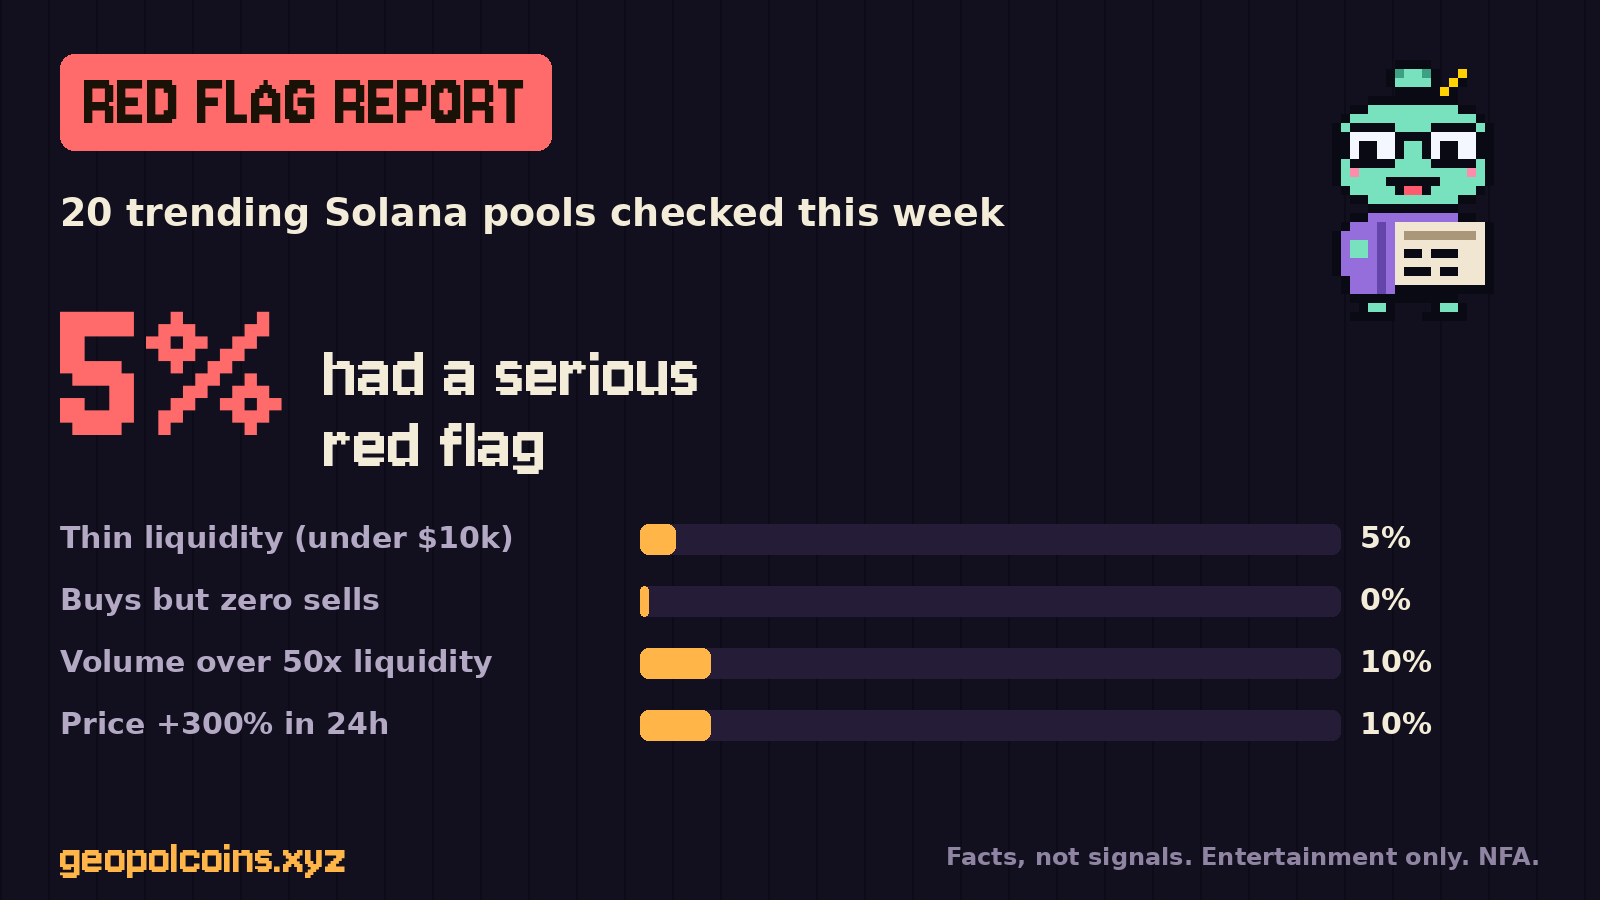
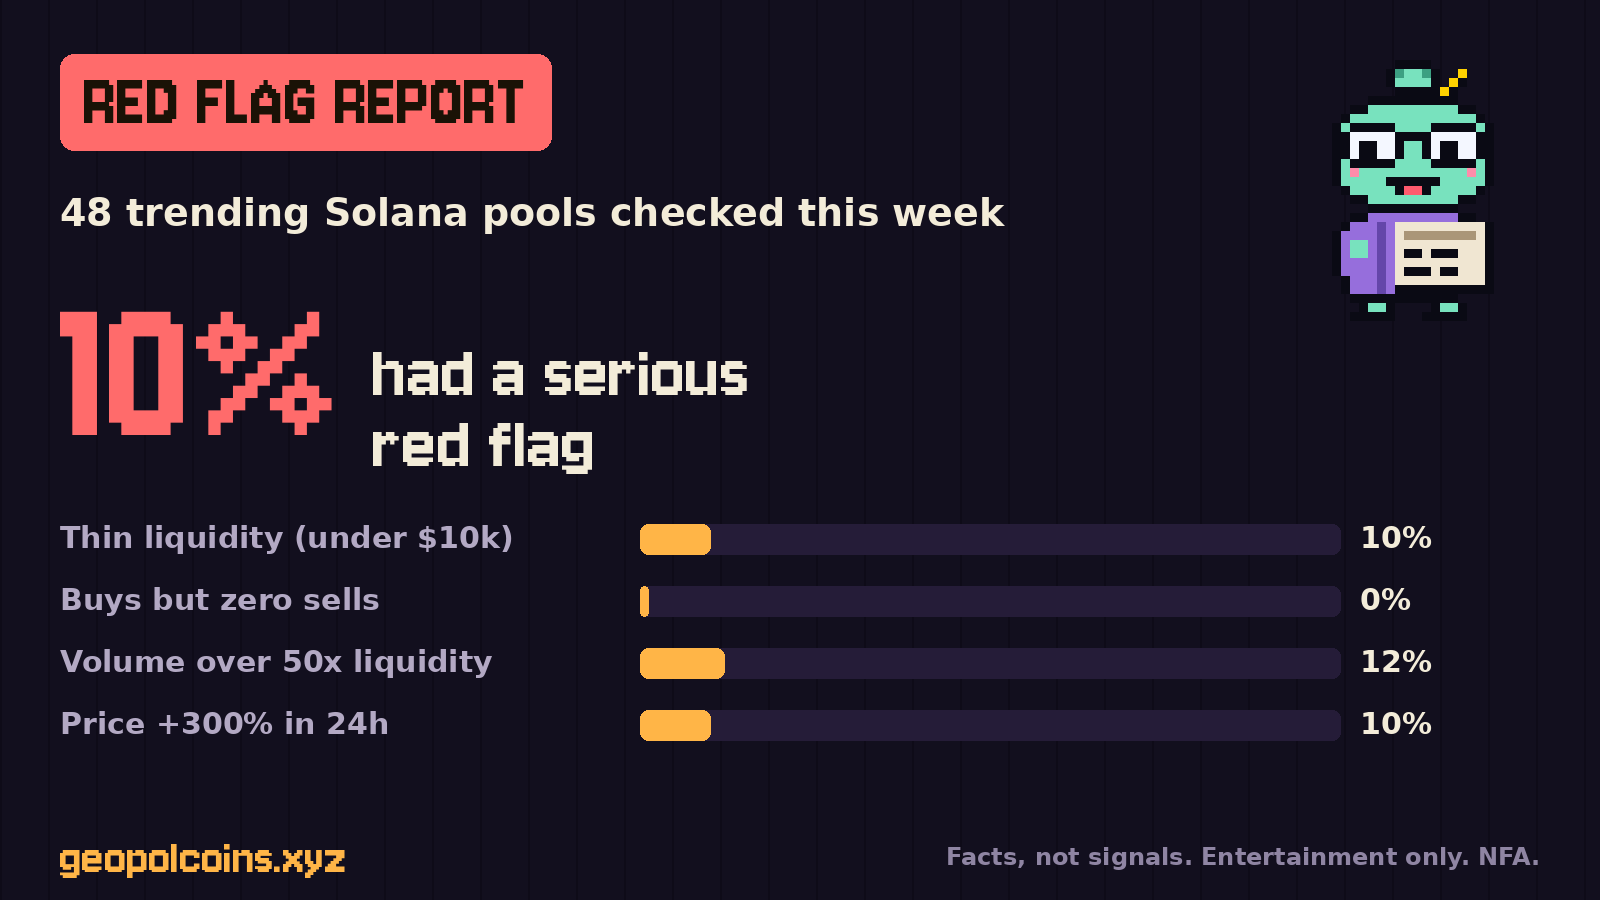
Growth: weekly Red Flag Report and post kit

diff --git a/report.html b/report.html
@@ -7,12 +7,12 @@
 <title>Solana Red Flag Report: weekly scam signals | MAIGA</title>
 <meta name="description" content="Each week we count public red flags across trending Solana pools: thin liquidity, honeypot signs, bot volume and wild price moves. Free data, no signals.">
 <link rel="canonical" href="https://geopolcoins.xyz/report.html">
-<meta property="og:type" content="article"><meta property="og:title" content="Solana Red Flag Report: 5% of trending pools had a serious red flag">
+<meta property="og:type" content="article"><meta property="og:title" content="Solana Red Flag Report: 10% of trending pools had a serious red flag">
 <meta property="og:description" content="Weekly public red-flag count across trending Solana pools. Facts, not signals.">
 <meta property="og:url" content="https://geopolcoins.xyz/report.html"><meta property="og:image" content="https://geopolcoins.xyz/social/report.png"><meta name="twitter:card" content="summary_large_image">
 <link rel="icon" href="/favicon.ico" sizes="any"><link rel="icon" type="image/png" sizes="32x32" href="/favicon-32.png"><link rel="apple-touch-icon" href="/apple-touch-icon.png"><link rel="manifest" href="/site.webmanifest">
 <meta name="theme-color" content="#120f1e">
-<script type="application/ld+json">{"@context": "https://schema.org", "@type": "Dataset", "name": "Solana Red Flag Report", "description": "Weekly share of trending Solana pools with public red flags (thin liquidity, buys without sells, bot-like volume, extreme price moves).", "url": "https://geopolcoins.xyz/report.html", "license": "https://creativecommons.org/licenses/by/4.0/", "creator": {"@type": "Organization", "name": "geopolcoins.xyz"}, "temporalCoverage": "2026-W45/2026-W45", "dateModified": "2026-11-07", "isAccessibleForFree": true}</script>
+<script type="application/ld+json">{"@context": "https://schema.org", "@type": "Dataset", "name": "Solana Red Flag Report", "description": "Weekly share of trending Solana pools with public red flags (thin liquidity, buys without sells, bot-like volume, extreme price moves).", "url": "https://geopolcoins.xyz/report.html", "license": "https://creativecommons.org/licenses/by/4.0/", "creator": {"@type": "Organization", "name": "geopolcoins.xyz"}, "temporalCoverage": "2026-W45/2026-W45", "dateModified": "2026-11-08", "isAccessibleForFree": true}</script>
 <script type="application/ld+json">{"@context": "https://schema.org", "@type": "FAQPage", "mainEntity": [{"@type": "Question", "name": "What is the Solana Red Flag Report?", "acceptedAnswer": {"@type": "Answer", "text": "A free weekly count of public red flags across the trending Solana pools on GeckoTerminal. We sample the trending list four times a day and count each pool once per week."}}, {"@type": "Question", "name": "Which red flags do you count?", "acceptedAnswer": {"@type": "Answer", "text": "Thin liquidity under $10,000, many buys with zero sells (a honeypot sign), 24-hour volume over 50 times the liquidity (possible bot volume), and price moves of +300% or -60% in 24 hours. A serious red flag means thin liquidity or buys without sells."}}, {"@type": "Question", "name": "Does a pool without flags mean it is safe?", "acceptedAnswer": {"@type": "Answer", "text": "No. These are a few public checks only. Many risks do not show in public data. This is education, not financial advice."}}]}</script>
 <style>
 @font-face{font-family:"Jersey 10";src:url(/fonts/jersey-10.woff2) format("woff2");font-display:swap}
@@ -35,7 +35,6 @@ table{width:100%;border-collapse:collapse;font-variant-numeric:tabular-nums}th,t
 footer{border-top:1px solid var(--line);margin:40px 0 0;padding:18px 0 40px;color:var(--mute);font-size:13.5px;display:flex;gap:14px;flex-wrap:wrap}footer a{color:var(--dim)}
 @media (max-width:620px){.bar{grid-template-columns:1fr 54px}.bar i{grid-column:1/3;grid-row:2}}
 </style>
-<script type="application/ld+json" id="ld-crumbs">{"@context":"https://schema.org","@type":"BreadcrumbList","itemListElement":[{"@type":"ListItem","position":1,"name":"Home","item":"https://geopolcoins.xyz/"},{"@type":"ListItem","position":2,"name":"Solana Red Flag Report","item":"https://geopolcoins.xyz/report.html"}]}</script>
 </head>
 <body>
 <a class="skip" href="#main">Skip to content</a>
@@ -43,12 +42,12 @@ footer{border-top:1px solid var(--line);margin:40px 0 0;padding:18px 0 40px;colo
 <header class="top"><a class="brand" href="/"><b>$MAIGA</b> · geopolcoins.xyz</a><nav aria-label="Main"><a href="radar.html">Radar</a><a href="hq.html#checkup">Token Checkup</a><a href="blog.html">Blog</a></nav></header>
 <main id="main">
 <h1>Solana <span>Red Flag</span> Report</h1>
-<p class="lead">Every week we count public red flags across the trending Solana pools. Week 2026-W45, updated 2026-11-07. Facts, not signals: we never name or rate a single token here.</p>
-<div class="big"><b>5%</b><span>of the 20 trending Solana pools we checked this week had a serious red flag (thin liquidity or buys without any sells).</span></div><h2>This week</h2><div class="bar"><span>Thin liquidity (under $10,000)</span><i style="--w:5%"></i><b>5%</b></div><div class="bar"><span>Buys but zero sells (honeypot sign)</span><i style="--w:0%"></i><b>0%</b></div><div class="bar"><span>Volume over 50x the liquidity</span><i style="--w:10%"></i><b>10%</b></div><div class="bar"><span>Price +300% in 24 hours</span><i style="--w:10%"></i><b>10%</b></div><div class="bar"><span>Price -60% in 24 hours</span><i style="--w:5%"></i><b>5%</b></div>
+<p class="lead">Every week we count public red flags across the trending Solana pools. Week 2026-W45, updated 2026-11-08. Facts, not signals: we never name or rate a single token here.</p>
+<div class="big"><b>10%</b><span>of the 48 trending Solana pools we checked this week had a serious red flag (thin liquidity or buys without any sells).</span></div><h2>This week</h2><div class="bar"><span>Thin liquidity (under $10,000)</span><i style="--w:10%"></i><b>10%</b></div><div class="bar"><span>Buys but zero sells (honeypot sign)</span><i style="--w:0%"></i><b>0%</b></div><div class="bar"><span>Volume over 50x the liquidity</span><i style="--w:12%"></i><b>12%</b></div><div class="bar"><span>Price +300% in 24 hours</span><i style="--w:10%"></i><b>10%</b></div><div class="bar"><span>Price -60% in 24 hours</span><i style="--w:25%"></i><b>25%</b></div>
 <div class="cta"><a class="btn" href="hq.html#checkup">Check a token yourself</a><a class="btn g" href="radar.html">See live red flags</a><a class="btn g" href="rug.html">Practise: Spot the Rug Pull</a></div>
 <p class="note">Trending means many people trade it now, not that it is good or will go up. No flags does not mean safe. Data: GeckoTerminal public API, sampled four times a day; each pool counts once per week. Education only, not financial advice.</p>
 <h2>Past weeks</h2>
-<div class="tw"><table><thead><tr><th>Week</th><th>Pools</th><th>Serious flag</th><th>Thin liquidity</th><th>No sells</th><th>+300%</th></tr></thead><tbody><tr><td>2026-W45</td><td>20</td><td><b>5%</b></td><td>5%</td><td>0%</td><td>10%</td></tr></tbody></table></div>
+<div class="tw"><table><thead><tr><th>Week</th><th>Pools</th><th>Serious flag</th><th>Thin liquidity</th><th>No sells</th><th>+300%</th></tr></thead><tbody><tr><td>2026-W45</td><td>48</td><td><b>10%</b></td><td>10%</td><td>0%</td><td>10%</td></tr></tbody></table></div>
 <p>You may reuse these numbers with a link to this page (CC BY 4.0).</p>
 <section class="faq" aria-labelledby="hQ"><h2 id="hQ">Questions</h2><details><summary>What is the Solana Red Flag Report?</summary><p>A free weekly count of public red flags across the trending Solana pools on GeckoTerminal. We sample the trending list four times a day and count each pool once per week.</p></details><details><summary>Which red flags do you count?</summary><p>Thin liquidity under $10,000, many buys with zero sells (a honeypot sign), 24-hour volume over 50 times the liquidity (possible bot volume), and price moves of +300% or -60% in 24 hours. A serious red flag means thin liquidity or buys without sells.</p></details><details><summary>Does a pool without flags mean it is safe?</summary><p>No. These are a few public checks only. Many risks do not show in public data. This is education, not financial advice.</p></details></section>
 </main>
